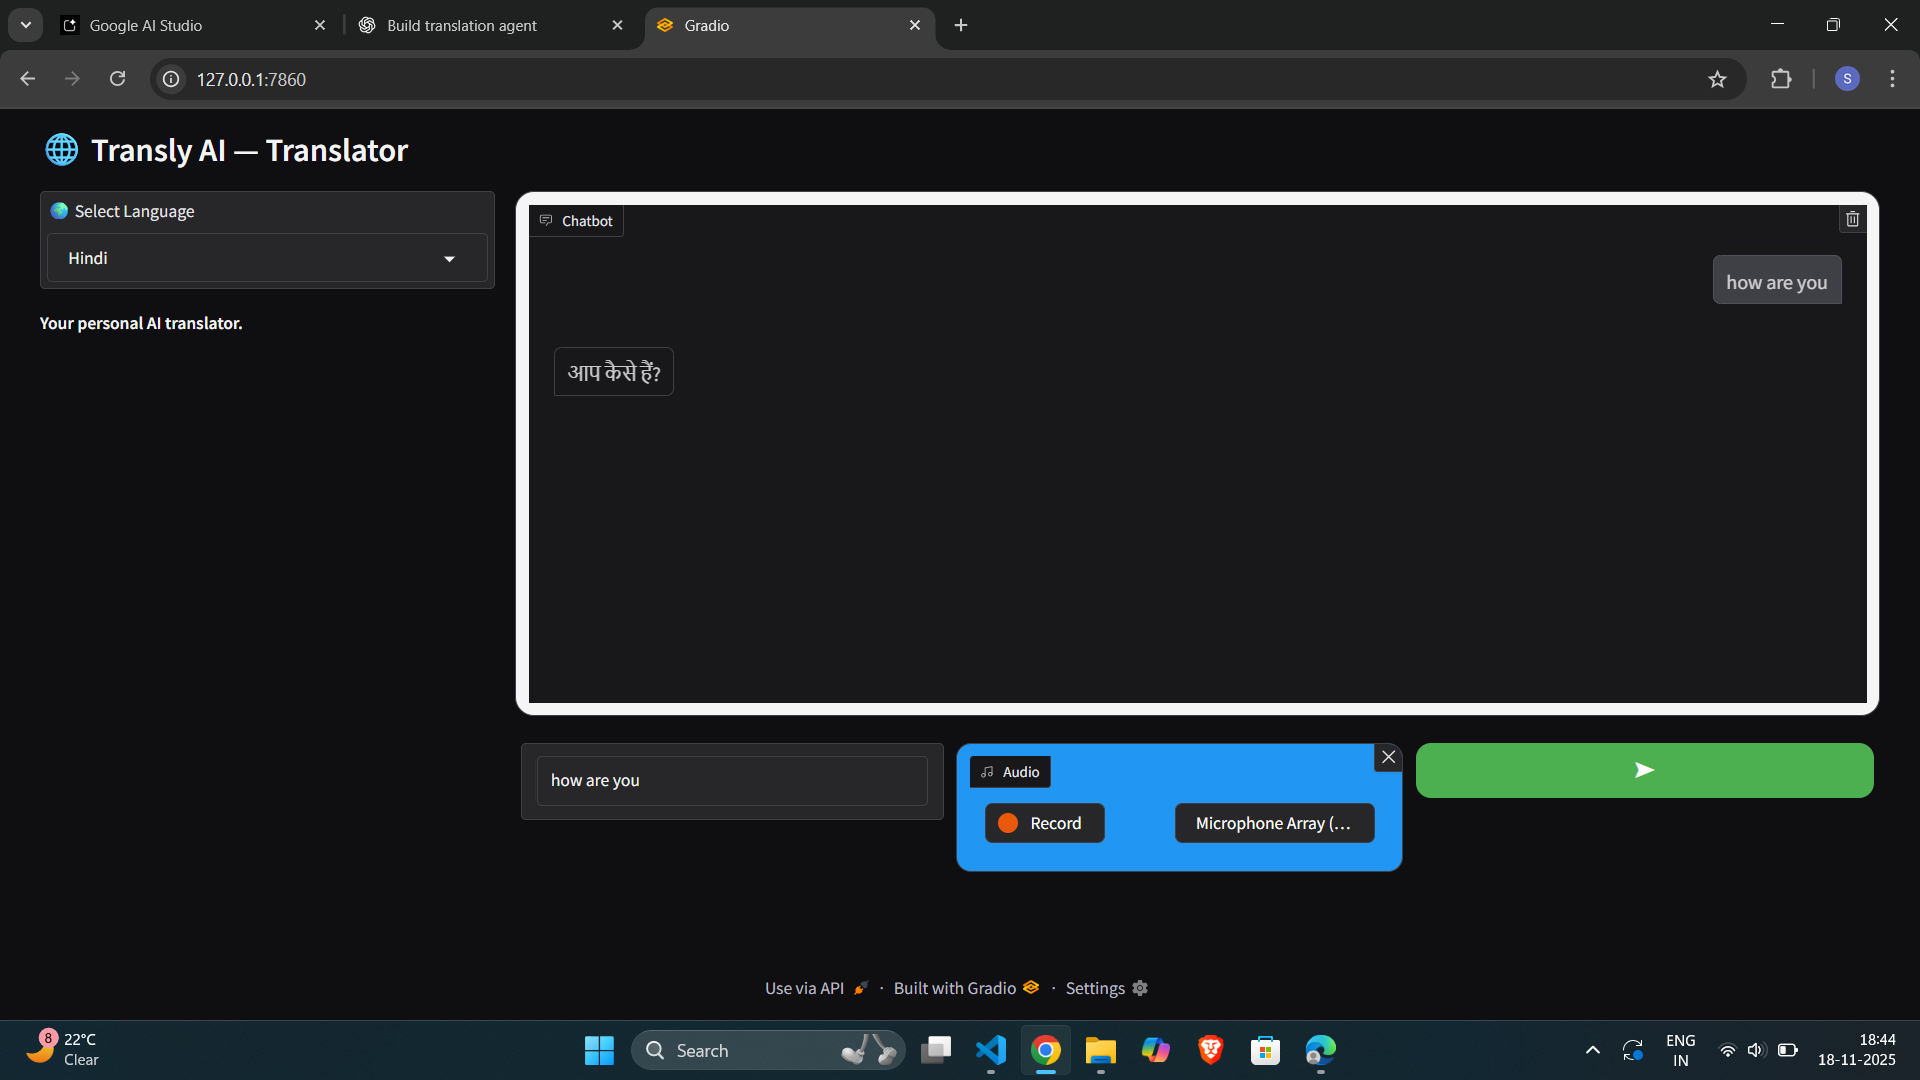
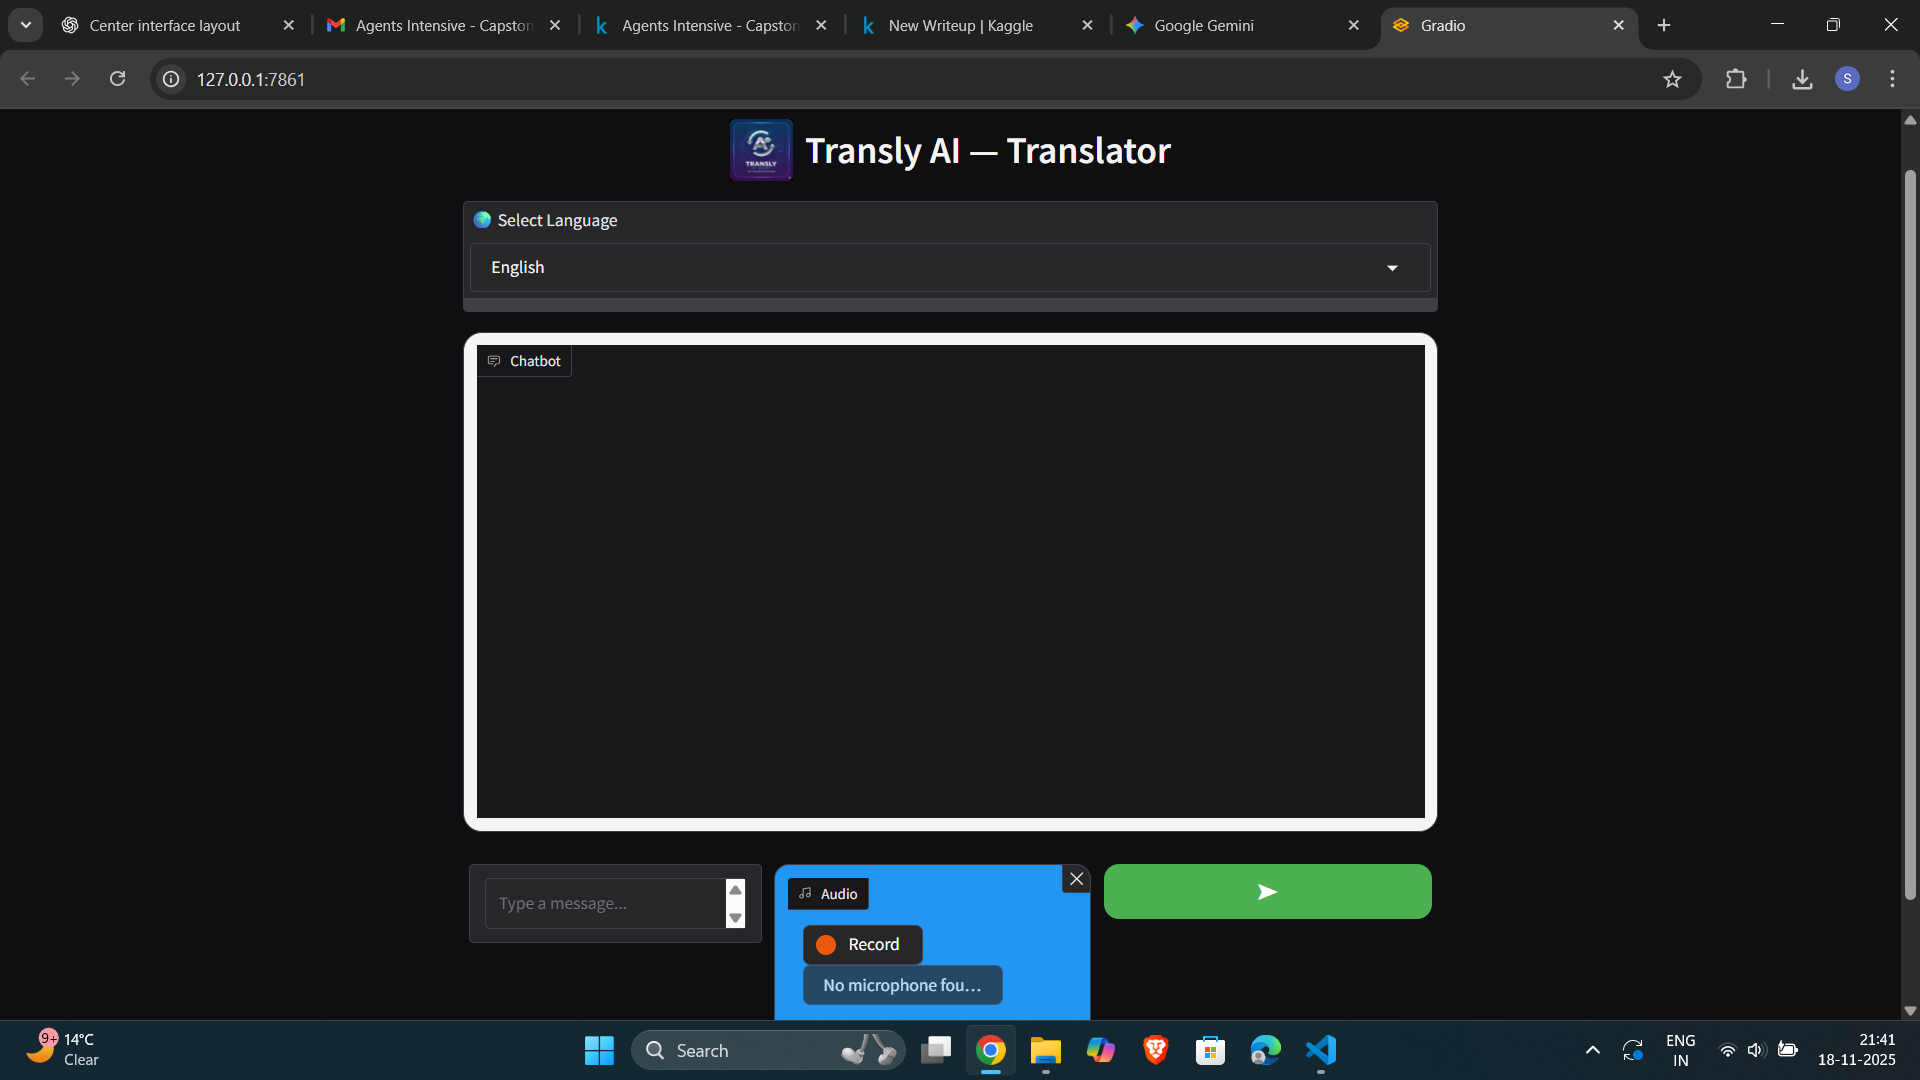
ui.py file updated

diff --git a/app/ui.py b/app/ui.py
@@ -17,7 +17,7 @@ def build_interface():
     with gr.Blocks(css="""
         /* Center container */
         .main-container {
-            max-width: 600px;  /* adjust width as needed */
+            max-width: 800px;  /* adjust width as needed */
             margin: 20px auto; /* center horizontally */
             padding: 10px;     /* inner padding */
         }
@@ -35,14 +35,14 @@ def build_interface():
         # Wrap all in a central container
         with gr.Column(elem_classes="main-container"):
 
-            # Header with logo
             gr.Markdown(f"""
-<div class="header">
-    <img src="{logo_src}" width="50" style="vertical-align: middle; margin-right:10px;">
+<div style="display: flex; align-items: center; justify-content: center; gap: 10px; margin-bottom: 10px;">
+    <img src="{logo_src}" width="50" height="50" style="display: inline-block;">
     <span style="font-size:30px; font-weight:bold;">Transly AI — Translator</span>
 </div>
 """)
 
+ 
             # Language selector below header
             lang_selector = gr.Dropdown(
                 SUPPORTED_LANGUAGES,
